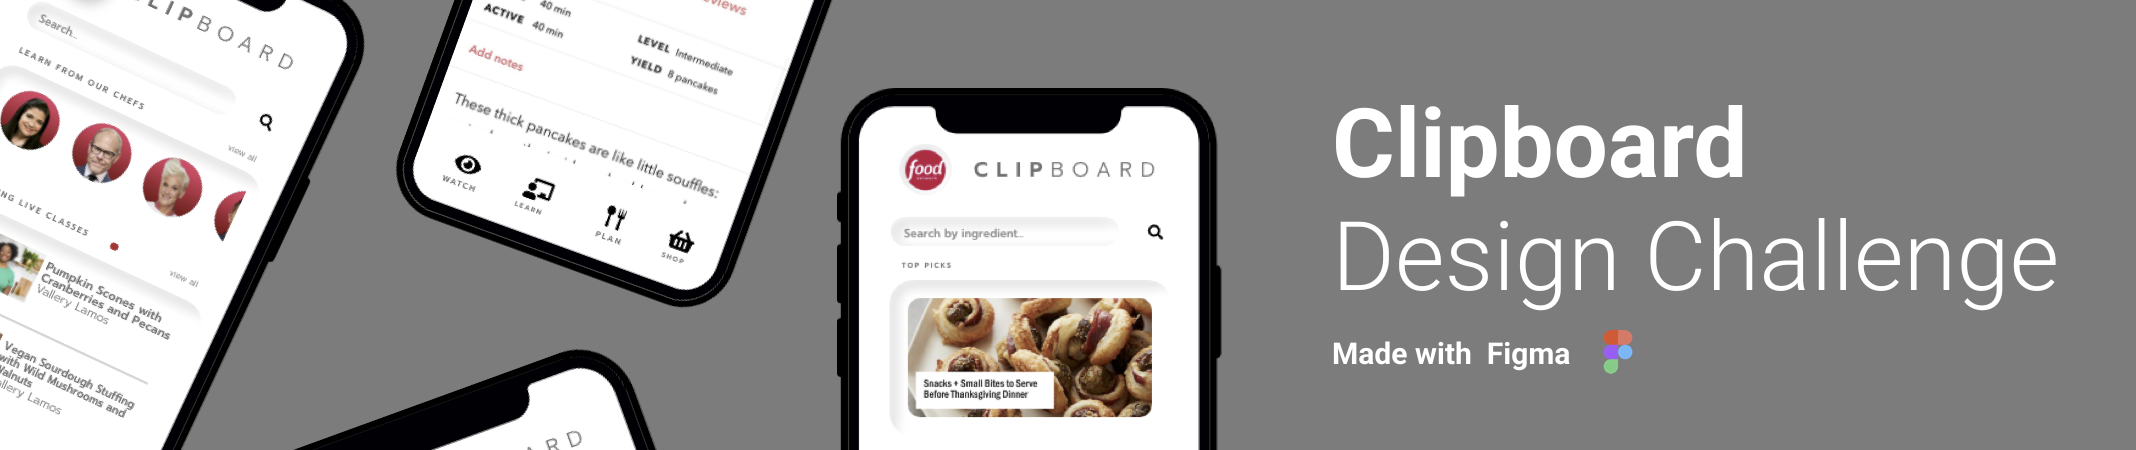
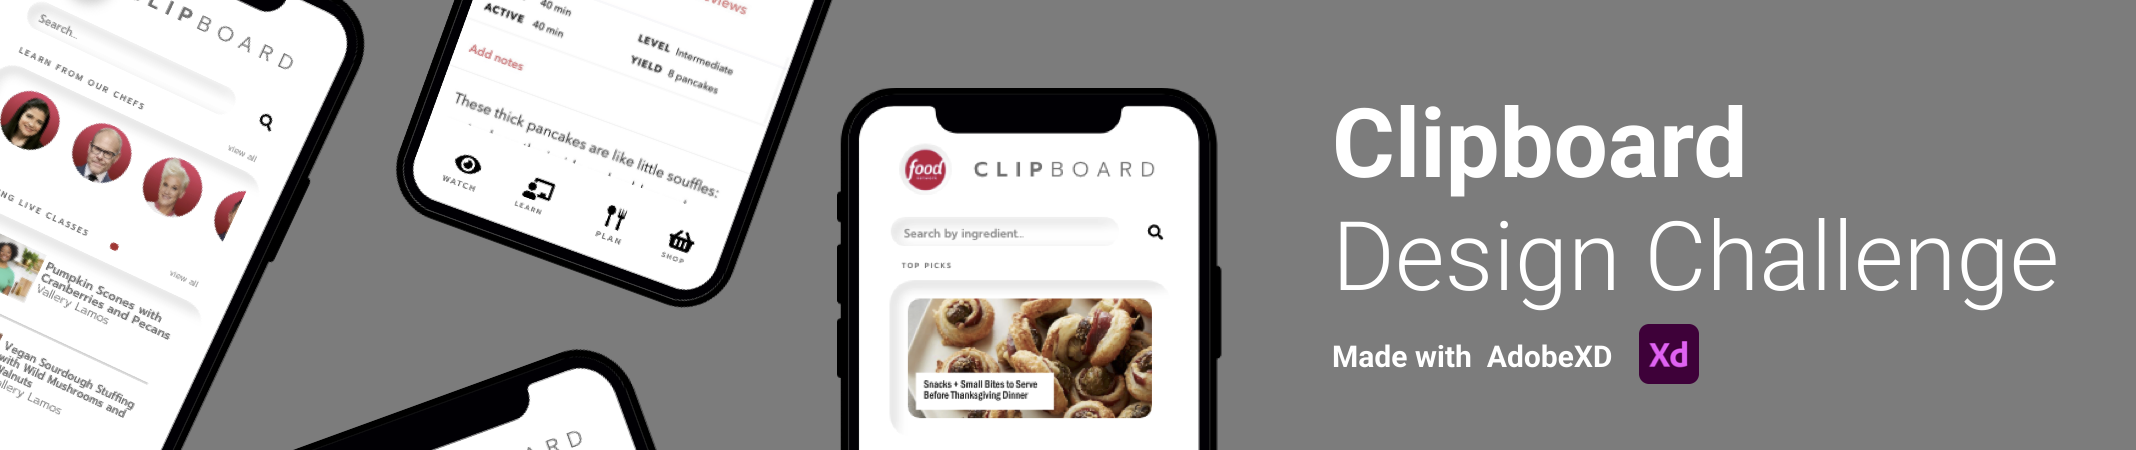
Edited cliper header image to say AdobeXD

Changed region(s): [[0.618, 0.7156, 0.8034, 0.8711], [0.4326, 0.7778, 0.5562, 0.9333], [0.309, 0.1244, 0.3399, 0.1556]]

diff --git a/css/main.css b/css/main.css
@@ -221,7 +221,7 @@ li {
 }
 
 .container:hover .overlay {
-  opacity: 0.5;
+  opacity: 0.2;
 }
 
 html {
